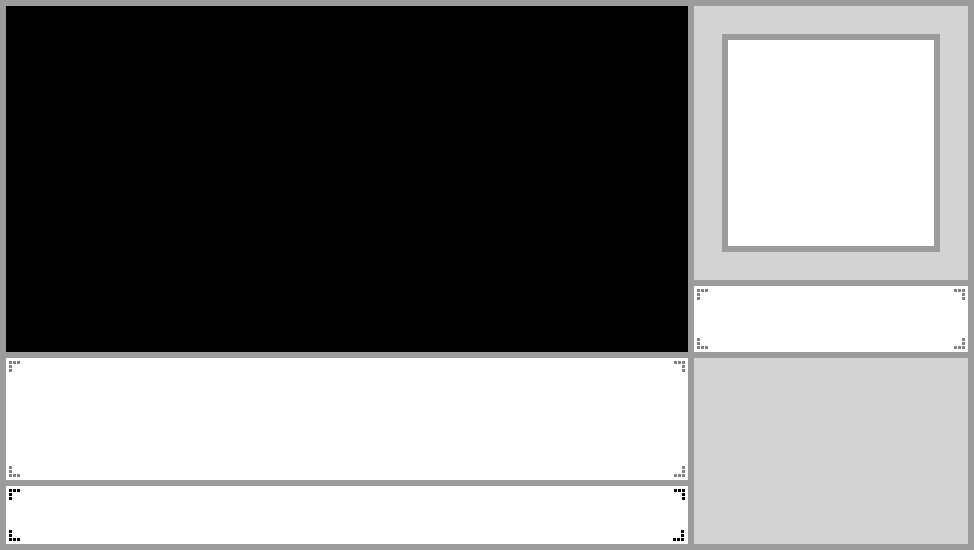
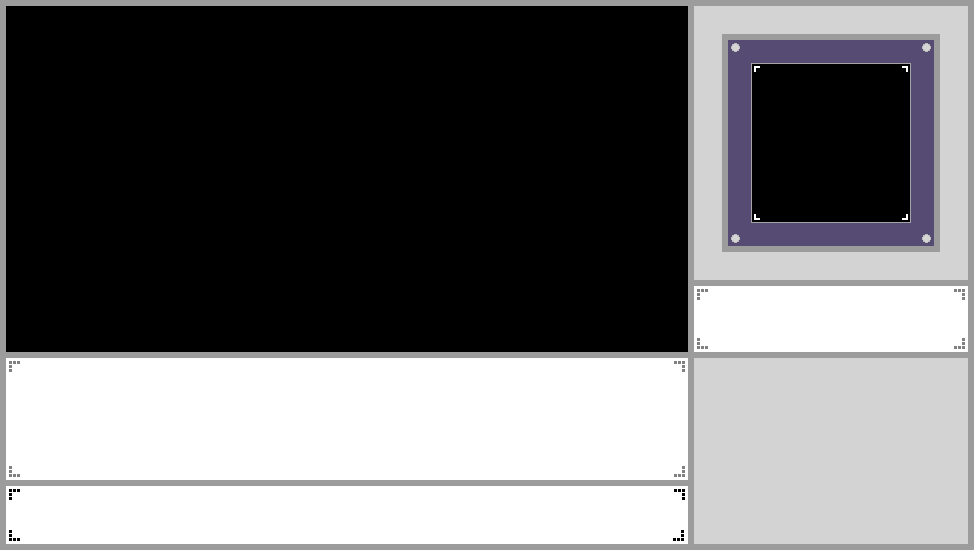
2 botones más añadidos a nivel gráfico sin funcionalidad en la partida

Changed region(s): [[0.7392, 0.0618, 0.9856, 0.4636]]

diff --git a/PartidaScreen.py b/PartidaScreen.py
@@ -76,6 +76,9 @@ class PartidaScreen:
         self.color_white = (255,255,255)
         self.color_black = (0,0,0)
         self.back = self.fuente.render('Volver al menú', True, self.color_white)
+        self.enviar_msg = self.fuente.render('Comunicar mensaje', True, self.color_white)
+        self.pedir_turno_palabra = self.fuente.render('Pedir la palabra', True, self.color_white)
+        self.liberar_turno_palabra = self.fuente.render('Ceder la palabra', True, self.color_white)
         self.msg = None
         self.msg1 = None
         self.msg2 = None
@@ -113,6 +116,7 @@ class PartidaScreen:
         self.GLOBAL.setActualPartidaState(pantalla)
         if(pantalla == "loading"):
             self.first_timeScreen = True
+            self.GLOBAL.setTokenDePalabra(None)
         
     def setPassword(self,v):
         self.password = v
@@ -143,6 +147,10 @@ class PartidaScreen:
             self.screen.blit(pygame.transform.scale(self.backgroundPartidaPic, (self.width,self.height)), (0, 0))
             self.screen.blit(pygame.transform.scale(self.buttonPic, (self.width/3.8339, self.height/12.2807)), (self.width/1.3873, self.height/1.1290)) #313 57 865 620
             self.screen.blit(pygame.transform.scale(self.back, (self.width/6.3158, self.height/17.5000)), (self.width/1.2973, self.height/1.1200)) #x x 925 625
+            self.screen.blit(pygame.transform.scale(self.buttonPic, (self.width/3.8339, self.height/12.2807)), (self.width/1.3873, self.height/12658)) #313 57 865 553
+            self.screen.blit(pygame.transform.scale(self.enviar_msg, (self.width/6.3158, self.height/17.5000)), (self.width/1.2973, self.height/1.2774)) #x x 925 548
+            self.screen.blit(pygame.transform.scale(self.buttonPic, (self.width/3.8339, self.height/12.2807)), (self.width/1.3873, self.height/1.4403)) #313 57 865 486
+            self.screen.blit(pygame.transform.scale(self.pedir_turno_palabra, (self.width/6.3158, self.height/17.5000)), (self.width/1.2973, self.height/1.4553)) #x x 925 481
         pygame.display.update() 
 
 
@@ -240,8 +248,14 @@ class PartidaScreen:
                 pygame.display.update()
         elif(self.GLOBAL.getActualPartidaState() == "partida"):
             if(self.first_timeScreen == True):
-                self.reload()
-                self.first_timeScreen = False
+                if(not self.isOnline):
+                    self.GLOBAL.setTokenDePalabra(None)
+                    self.reload()
+                    self.first_timeScreen = False
+                else:
+                    #TODO: establecer turno de palabra en función de lo que te haya dicho el mensaje UDP
+                    pass
+                
             else:
                 self.screen.blit(pygame.transform.scale(self.buttonPic, (self.width/3.8339, self.height/12.2807)), (self.width/1.3873, self.height/1.1290)) #313 57 865 620
                 self.screen.blit(pygame.transform.scale(self.back, (self.width/6.3158, self.height/17.5000)), (self.width/1.2973, self.height/1.1200)) #x x 925 625

diff --git a/Global.py b/Global.py
@@ -26,6 +26,16 @@ class Global:
         listaPersonajesHost = {}
         global actualPartidaState 
         actualPartidaState = None #por defecto es none
+        global tokenDePalabra 
+        tokenDePalabra = None
+
+    def setTokenDePalabra(self,id_usuario):
+        global tokenDePalabra
+        tokenDePalabra = id_usuario
+
+    def getTokenDePalabra(self):
+        global tokenDePalabra
+        return tokenDePalabra
 
     def setActualPartidaState(self,state):
         global actualPartidaState
